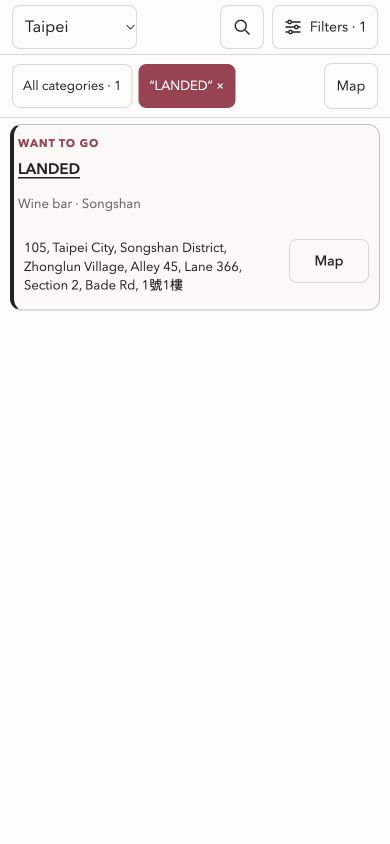
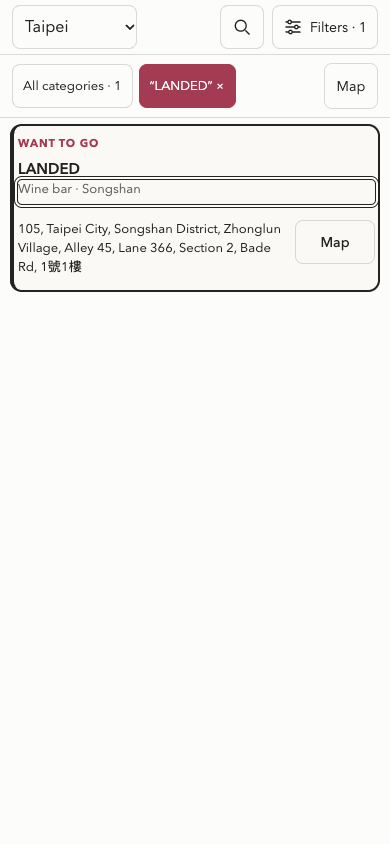
UI changes

diff --git a/src/components/field-guide/field-guide.module.css b/src/components/field-guide/field-guide.module.css
@@ -464,7 +464,7 @@
   display: grid;
   min-width: 0;
   gap: 0;
-  align-content: center;
+  align-content: start;
   min-height: 76px;
   padding: 6px 4px 12px;
 }
@@ -646,8 +646,8 @@
 .page .placeNameLink {
   display: block;
   min-width: 0;
-  min-height: 44px;
-  padding: 8px 0;
+  min-height: 0;
+  padding: 8px 0 0;
   border: 0;
   border-radius: 4px;
   background: transparent;
@@ -1195,5 +1195,5 @@
 
 /* The row toggles details. Venue links and Map have their own actions. */
 .placeStatus { margin: 5px 0 0; color: var(--fg-coral); font-size: 11px; font-weight: 700; letter-spacing: .08em; text-transform: uppercase; }
-.page .placeRowToggle { display: grid; width: 100%; min-height: 32px; gap: 4px; padding: 0; border: 0; border-radius: 4px; background: transparent; color: inherit; cursor: pointer; text-align: left; font: inherit; }
+.page .placeRowToggle { display: grid; align-content: start; width: 100%; min-height: 24px; gap: 4px; padding: 0; border: 0; border-radius: 4px; background: transparent; color: inherit; cursor: pointer; text-align: left; font: inherit; line-height: 1.4; }
 .placeCard:has(.placeRowToggle:focus-visible) { outline: 2px solid var(--fg-charcoal); outline-offset: -2px; }

diff --git a/src/components/field-guide/field-guide-explorer.module.css b/src/components/field-guide/field-guide-explorer.module.css
@@ -75,7 +75,7 @@
 .editToolbar { display: flex; flex: 0 0 auto; align-items: center; justify-content: space-between; padding: 0 12px; border-bottom: 1px solid var(--fg-line); font-size: 13px; }
 .editToolbar button { min-height: 44px; min-width: 60px; padding: 4px 8px; border: 0; border-radius: 6px; background: transparent; text-decoration: underline; text-underline-offset: 3px; }
 .list { flex: 1; min-height: 0; overflow-y: auto; overscroll-behavior-y: contain; padding: 0 10px 12px; }
-.listDetails { padding: 0 10px 14px; }
+.listDetails { padding: 4px 4px 14px; }
 .listDetails > aside { position: relative; inset: auto; width: 100%; max-height: none; overflow: visible; border: 0; border-radius: 0; padding: 0; box-shadow: none; background: transparent; }
 .listDetails > aside h2 { font-size: 18px; }
 .listDetails > aside button { cursor: pointer; }

diff --git a/docs/audits/2026-10-23-audit-implementation.md b/docs/audits/2026-10-23-audit-implementation.md
@@ -171,3 +171,18 @@ Desktop, 390-pixel, 320-pixel, and enlarged-text checks passed. Physical-phone b
 
 [Updated wine-bar list](2026-10-23-implementation/list-row-wine-mobile.png), [320-pixel layout](2026-10-23-implementation/list-row-wine-320.png), and [browser results](2026-10-23-implementation/list-row-browser-tests.txt).
 The follow-up is local and has not been deployed.
+
+## Follow-up: list spacing and alignment
+
+The category and district now sit directly below the underlined place name.
+The address starts at the same left edge, with a small gap above it.
+The name keeps its existing text style and Google Maps link.
+The row toggle retains a 24-pixel minimum height, and the Map button retains its 44-pixel height.
+
+Visual inspection covered the selected beef-noodle venue at 390 × 844 and 320 × 568.
+The name, category, and address share the same measured left edge.
+The production build, all 11 public browser checks, and `git diff --check` passed.
+The browser checks include keyboard toggling, external links, the in-app Map action, and enlarged text.
+Physical-phone behavior remains untested. This change is local and has not been deployed.
+
+[390-pixel layout](2026-10-23-implementation/list-row-alignment-mobile.png) and [320-pixel layout](2026-10-23-implementation/list-row-alignment-320.png).
